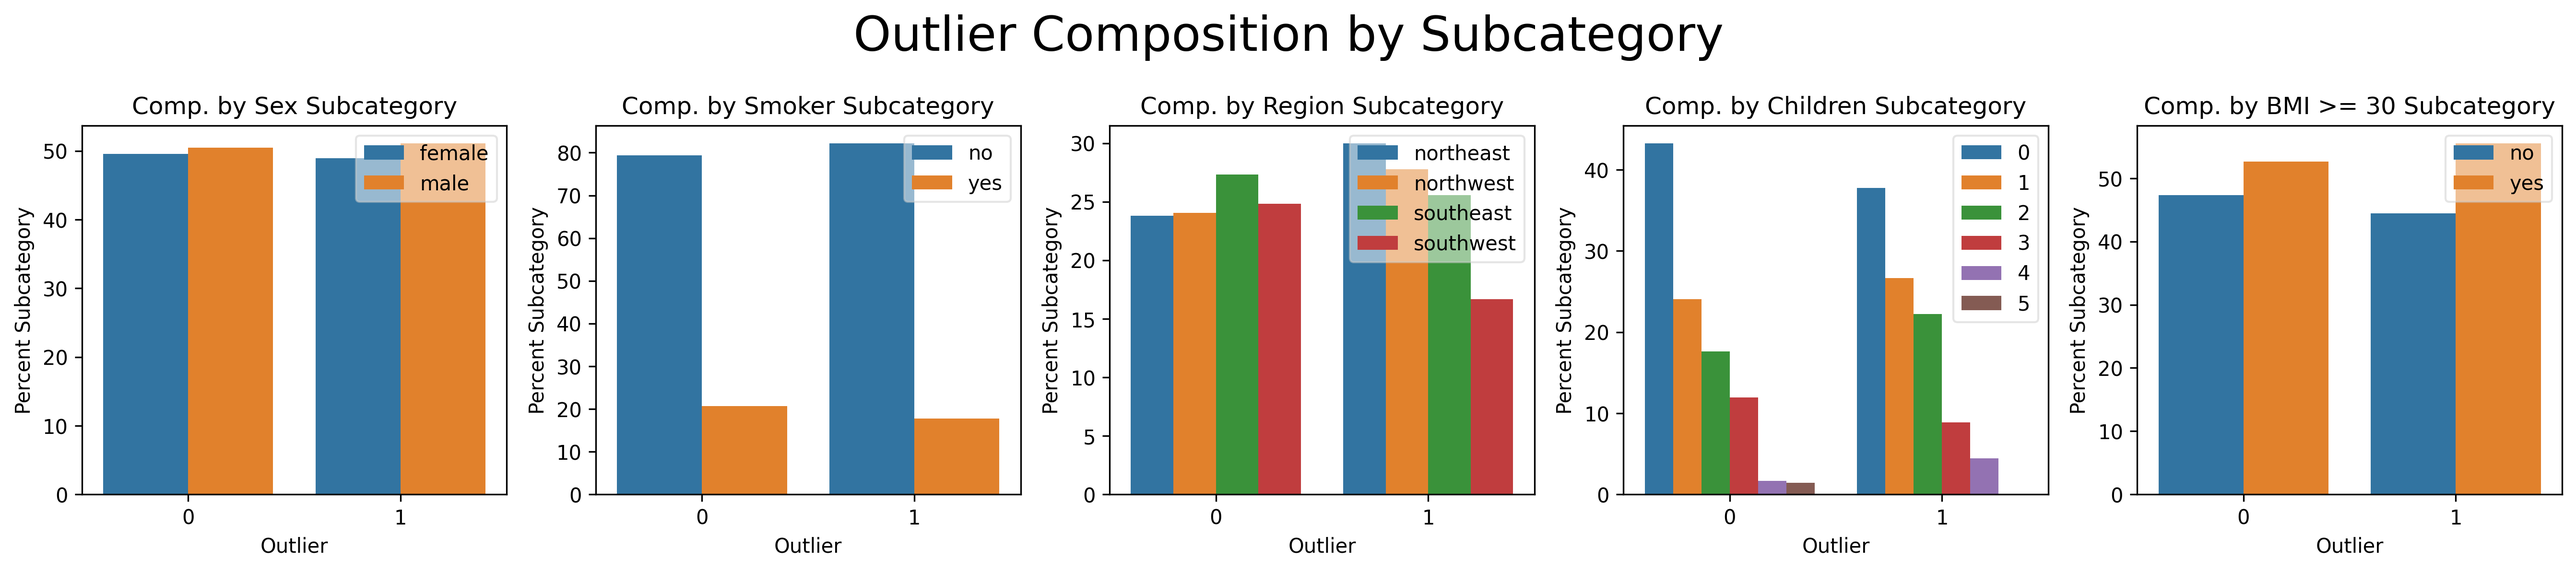
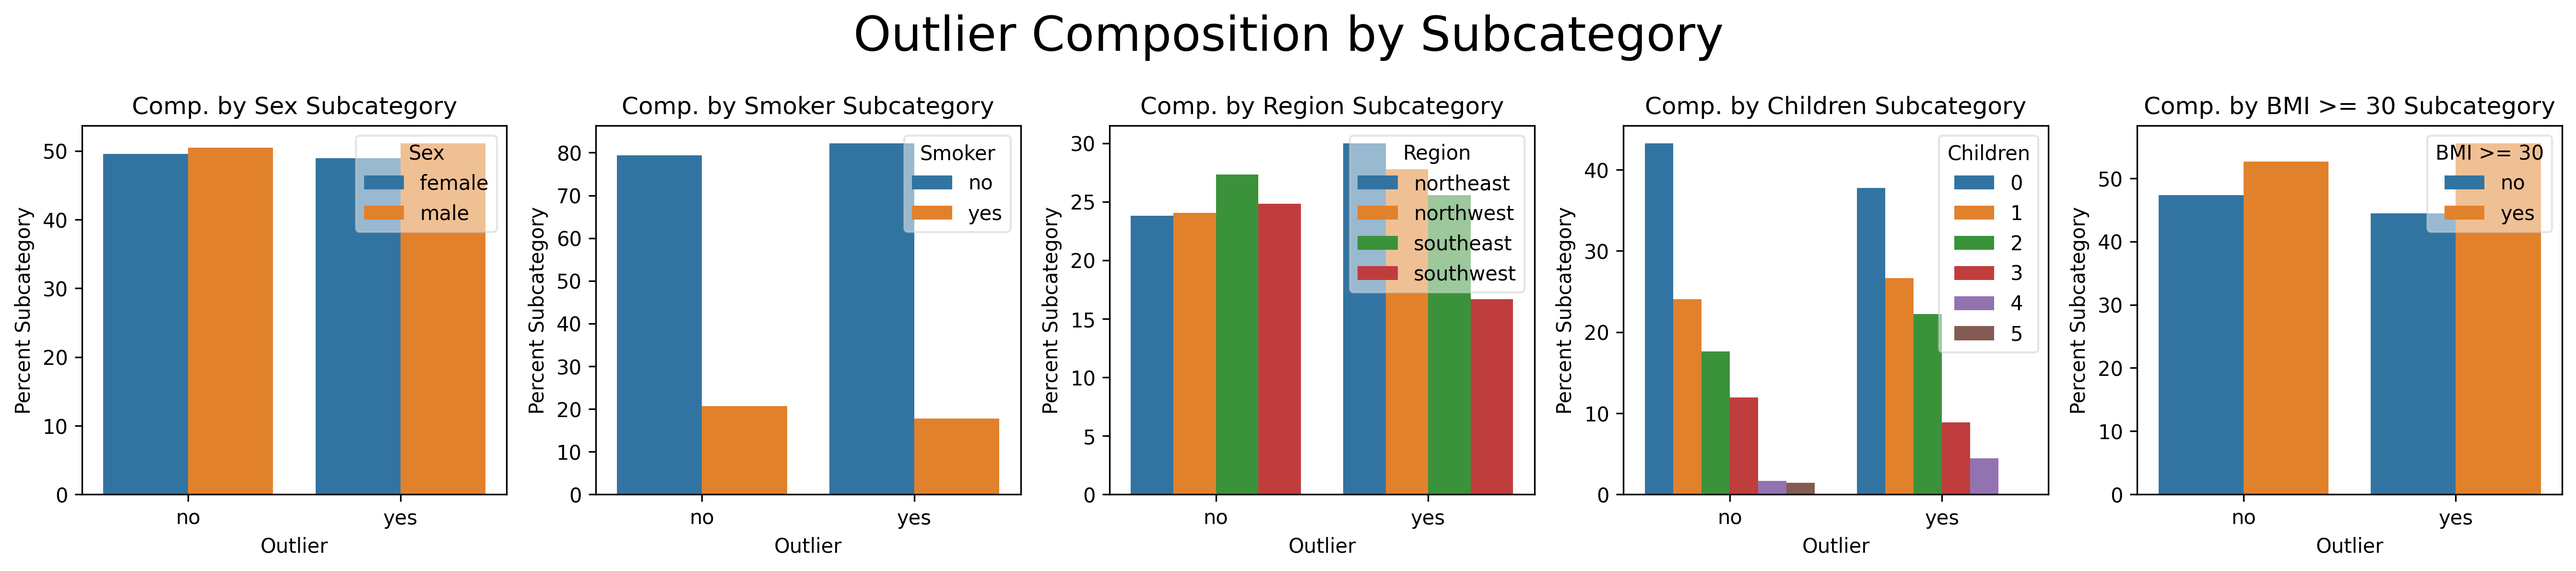
updated plots

diff --git a/cost_modeling.py b/cost_modeling.py
@@ -628,12 +628,12 @@ new_X_4['age^2'] = scaled_sq_ages
 title_4 = 'w [age^2] feature'
 model_name_4 = '[age^2]'
 file_name_4 = '4_age_sq_feature'
-sm_lin_reg_4, sm_y_pred_4, het_results_4 = fit_lr_model_results_subgrouped(new_X_4, y, title_4, save_img=False, filename_unique=file_name_4)
+sm_lin_reg_4, sm_y_pred_4, het_results_4 = fit_lr_model_results_subgrouped(new_X_4, y, title_4, save_img=True, filename_unique=file_name_4)
 
 # Organize model performance metrics
 summary_df_4 = sm_results_to_df(sm_lin_reg_4.summary())
 coeff_4 = pd.Series(summary_df_4['coef'], name=model_name_4)
-sm_lr_results_4 = pd.Series(evaluate_model_sm(y, sm_y_pred_4, sm_lin_reg_4, f'LR ({model_name_4})'), name=model_name_4)
+sm_lr_results_4 = pd.Series(evaluate_model_sm(y, sm_y_pred_4, sm_lin_reg_4), name=model_name_4)
 
 # Keep track of model performance for comparison later
 coeff_df = pd.concat([coeff_df, coeff_4], axis=1)
@@ -665,7 +665,7 @@ orig_features_df = coeff_df_new.iloc[0:5]
 new_features_df = coeff_df_new.iloc[5:len(coeff_df_new.index)]
 
 # Plot combined
-fig, gs, ax_array_flat = initialize_fig_gs_ax(num_rows=3, num_cols=1, figsize=(9, 13))
+fig, gs, ax_array_flat = dh.initialize_fig_gs_ax(num_rows=3, num_cols=1, figsize=(9, 13))
 
 smoker_df = orig_features_df.loc['smoker_yes'].to_frame().T
 ax1 = ax_array_flat[0]
@@ -700,7 +700,7 @@ ax3.grid()
 fig.suptitle('Feature coeff w/ each additional feature', fontsize=24)
 fig.tight_layout(h_pad=2) # Increase spacing between plots to minimize text overlap
 #save_filename = 'coeff_new_feat_vert_3'
-#save_image(save_filename)
+#dh.save_image(save_filename, models_output_dir)
 plt.show()
 
 
@@ -709,7 +709,6 @@ plt.show()
 # =======================================================================================
 
 sm_results_df = sm_results_df.apply(pd.to_numeric)
-sm_results_df = sm_results_df.rename(index={'mean_abs_e':'mae'})
 
 # Separate out metrics by scale
 all__error_mets = sm_results_df.loc[['max_e', 'rmse', 'mae', 'med_abs_e']]
@@ -719,7 +718,7 @@ r_metrics = sm_results_df.loc[['r2', 'r2_adj']]
 het_stats = sm_results_df.loc[['bp_lm_p', 'white_lm_p']]
 
 # Plot combined
-fig, gs, ax_array_flat = initialize_fig_gs_ax(num_rows=2, num_cols=2, figsize=(12, 7))
+fig, gs, ax_array_flat = dh.initialize_fig_gs_ax(num_rows=2, num_cols=2, figsize=(12, 7))
 
 ax1 = ax_array_flat[0]
 df_to_plot = max_e_df
@@ -760,7 +759,7 @@ ax4.grid()
 fig.suptitle('LR Performance w/ each additional feature', fontsize=24)
 fig.tight_layout(h_pad=2) # Increase spacing between plots to minimize text overlap
 save_filename = 'performance_new_feat'
-save_image(save_filename)
+#dh.save_image(save_filename, models_output_dir)
 plt.show()
 
 # =======================================================================================
@@ -769,7 +768,7 @@ plt.show()
 # https://www.statology.org/multiple-linear-regression-assumptions/
 # https://towardsdatascience.com/linear-regression-model-with-python-481c89f0f05b
 
-fig = qqplot(sm_lin_reg_4.resid_pearson,line='45',fit='True')
+fig = qqplot(sm_lin_reg_4.resid_pearson, line='45', fit='True')
 plt.xlabel('Theoretical quantiles')
 plt.ylabel('Sample quantiles')
 plt.show()
@@ -791,10 +790,10 @@ cooks_cutoff = 4 / (len(cooks) - (new_X_4.shape[1] - 1) - 1)
 outlier_df = new_X_4.copy()
 outlier_df['cooks'] = cooks
 outlier_df['outlier'] = outlier_df['cooks'] > cooks_cutoff
-outlier_dict = {False:0, True:1}
+outlier_dict = {False:'no', True:'yes'}
 outlier_df['outlier'] = outlier_df['outlier'].map(outlier_dict)
 
-num_outliers = outlier_df[outlier_df['outlier'] == 1].shape[0] # 90
+num_outliers = outlier_df[outlier_df['outlier'] == 'yes'].shape[0] # 90
 perc_outliers = num_outliers / outlier_df.shape[0] # 0.0672
 outlier_df['true_values'] = y
 outlier_df['y_pred'] = sm_y_pred_4
@@ -813,8 +812,8 @@ plt.show()
 # ==========================================================
 # Plot with respect to model results
 # ==========================================================
-outlier_data = outlier_df[outlier_df['outlier']==1]
-nonoutlier_data = outlier_df[outlier_df['outlier']==0]
+outlier_data = outlier_df[outlier_df['outlier']=='yes']
+nonoutlier_data = outlier_df[outlier_df['outlier']=='no']
 
 # Stand Resid vs. Stud Residuals
 plt.scatter(outlier_data['y_pred'], outlier_data['stud_resid'], alpha=0.7, label='Outliers')
@@ -842,44 +841,30 @@ orig_data_w_outlier['bmi_>=_30'] = orig_data_w_outlier['bmi_>=_30'].map(bmi_dict
 # =============================
 # Nonsmoker age vs. charges
 nonsmoker_outlier_df = orig_data_w_outlier[orig_data_w_outlier['smoker']=='no']
-# LM plot just makes it easier to color by outlier
-sns.lmplot(x='age', y='charges', hue="outlier", data=nonsmoker_outlier_df, ci=None, line_kws={'alpha':0}, legend=False)
+sns.lmplot(x='age', y='charges', hue="outlier", data=nonsmoker_outlier_df, ci=None, line_kws={'alpha':0}, legend=False) # LM plot just makes it easier to color by outlier
 plt.title("Age vs. Charges in nonsmokers")
 #dh.save_image('outliers_age_v_charges_nonsmoker', models_output_dir)
 
-num_outliers_in_nonsmokers = nonsmoker_outlier_df[nonsmoker_outlier_df['outlier'] == 1].shape[0] # 74
-perc_outliers_in_nonsmokers = num_outliers_in_nonsmokers / nonsmoker_outlier_df.shape[0] # 0.0695
-
 # Obese smoker age vs. charges
 ob_smoker_outlier_df = orig_data_w_outlier[(orig_data_w_outlier['smoker']=='yes') & (orig_data_w_outlier['bmi_>=_30']=='yes')]
-# LM plot just makes it easier to color by outlier
 sns.lmplot(x='age', y='charges', hue="outlier", data=ob_smoker_outlier_df, ci=None, line_kws={'alpha':0}, legend=False)
 plt.title("Age vs. Charges in obese smokers")
 #dh.save_image('outliers_age_v_charges_ob_smoker', models_output_dir)
 
-num_outliers_in_ob_smokers = ob_smoker_outlier_df[ob_smoker_outlier_df['outlier'] == 1].shape[0] # 9
-perc_outliers_in_ob_smokers = num_outliers_in_ob_smokers / ob_smoker_outlier_df.shape[0] # 0.0620
-
 # Nonobese smoker age vs. charges
 nonob_smoker_outlier_df = orig_data_w_outlier[(orig_data_w_outlier['smoker']=='yes') & (orig_data_w_outlier['bmi_>=_30']=='no')]
-# LM plot just makes it easier to color by outlier
 sns.lmplot(x='age', y='charges', hue="outlier", data=nonob_smoker_outlier_df, ci=None, line_kws={'alpha':0}, legend=False)
 plt.title("Age vs. Charges in obese smokers")
 plt.legend(bbox_to_anchor=(1.05, 1), loc='upper left', borderaxespad=0, title="Cook's Outlier")
-#dh.save_image('outliers_age_v_charges_nonob_smoker', models_output_dir)
+dh.save_image('outliers_age_v_charges_nonob_smoker', models_output_dir)
 
-num_outliers_in_nonob_smokers = nonob_smoker_outlier_df[nonob_smoker_outlier_df['outlier'] == 1].shape[0] # 7
-perc_outliers_in_nonob_smokers = num_outliers_in_nonob_smokers / nonob_smoker_outlier_df.shape[0] # 0.0542
-
-# Not really much going on in these next two
+# In the next two graphs, the outliers are scattered around, there is no obvious grouping
 # Smoker bmi vs. charges
 smoker_outlier_df = orig_data_w_outlier[orig_data_w_outlier['smoker'] >= 'yes']
-# LM plot just makes it easier to color by outlier
-sns.lmplot(x='bmi', y='charges', hue="outlier", data=smoker_outlier_df, ci=None, line_kws={'alpha':0})
+sns.lmplot(x='bmi', y='charges', hue="outlier", data=smoker_outlier_df)#, ci=None, line_kws={'alpha':0})
 plt.plot()
 
 # Children vs. charges
-# LM plot just makes it easier to color by outlier
 sns.lmplot(x='children', y='charges', hue="outlier", data=orig_data_w_outlier)#, ci=None, line_kws={'alpha':0})
 plt.plot()
 
@@ -893,9 +878,8 @@ target_col = 'outlier'
 i = 0
 for col in cat_ord_cols:
     df_grouped = dh.dataframe_percentages(orig_data_w_outlier, target_col, col)
-    #sns.barplot(x=df_grouped[col], y=df_grouped['percent_of_cat_var'], hue=df_grouped[target_col])
     ax = ax_array_flat[i]
-    sns.barplot(x=df_grouped[col], y=df_grouped[(df_grouped[target_col]==1)]['percent_of_cat_var'], ax=ax)
+    sns.barplot(x=df_grouped[col], y=df_grouped[(df_grouped[target_col]=='yes')]['percent_of_cat_var'], ax=ax)
     ax.axline(xy1=(0, (perc_outliers*100)), slope=0, color='darkblue', linestyle='--', label='Dataset % Outliers')
     ax.set_title('Percent Outlier by ' + format_col(col))
     ax.set_xlabel(format_col(col))
